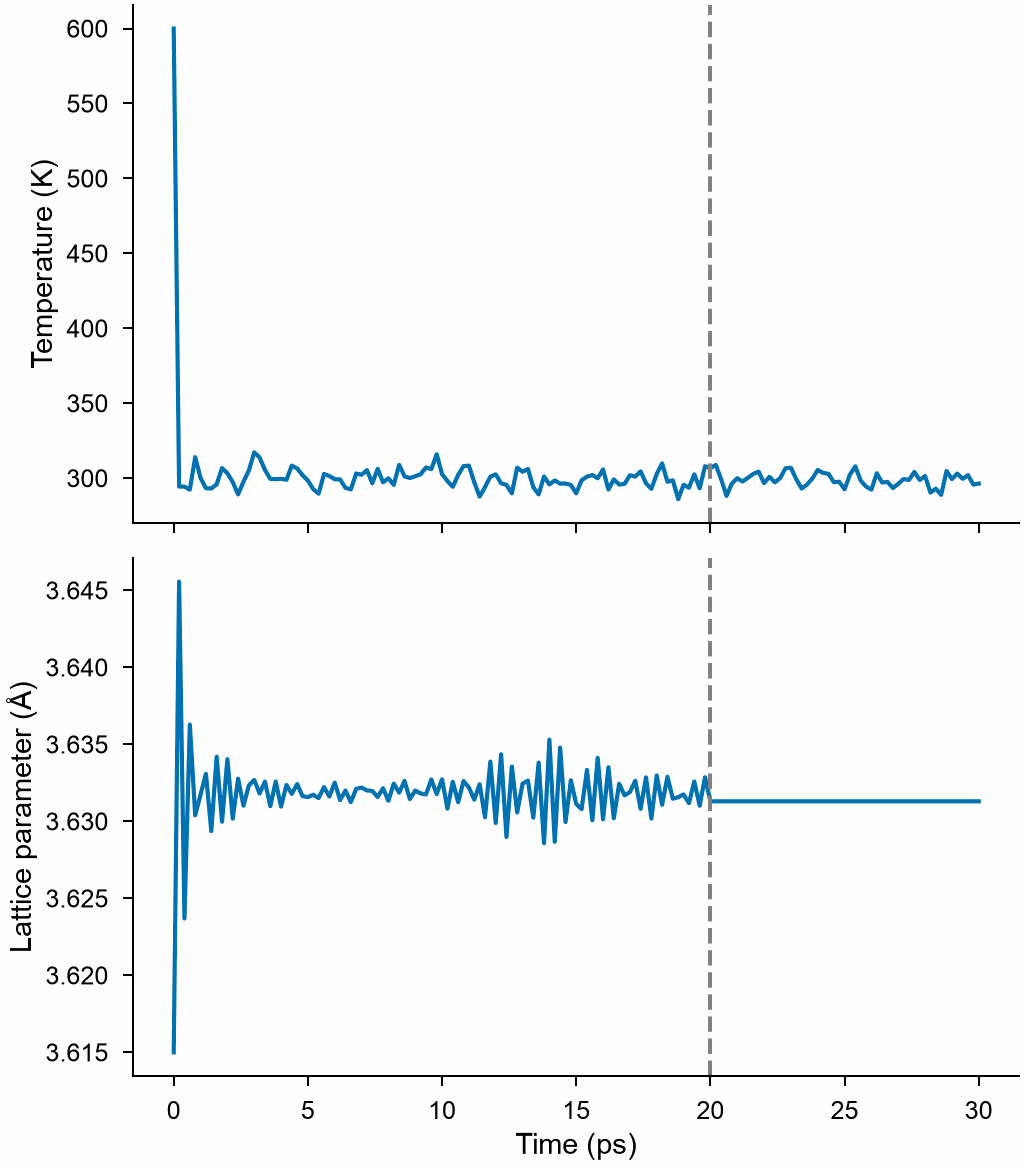
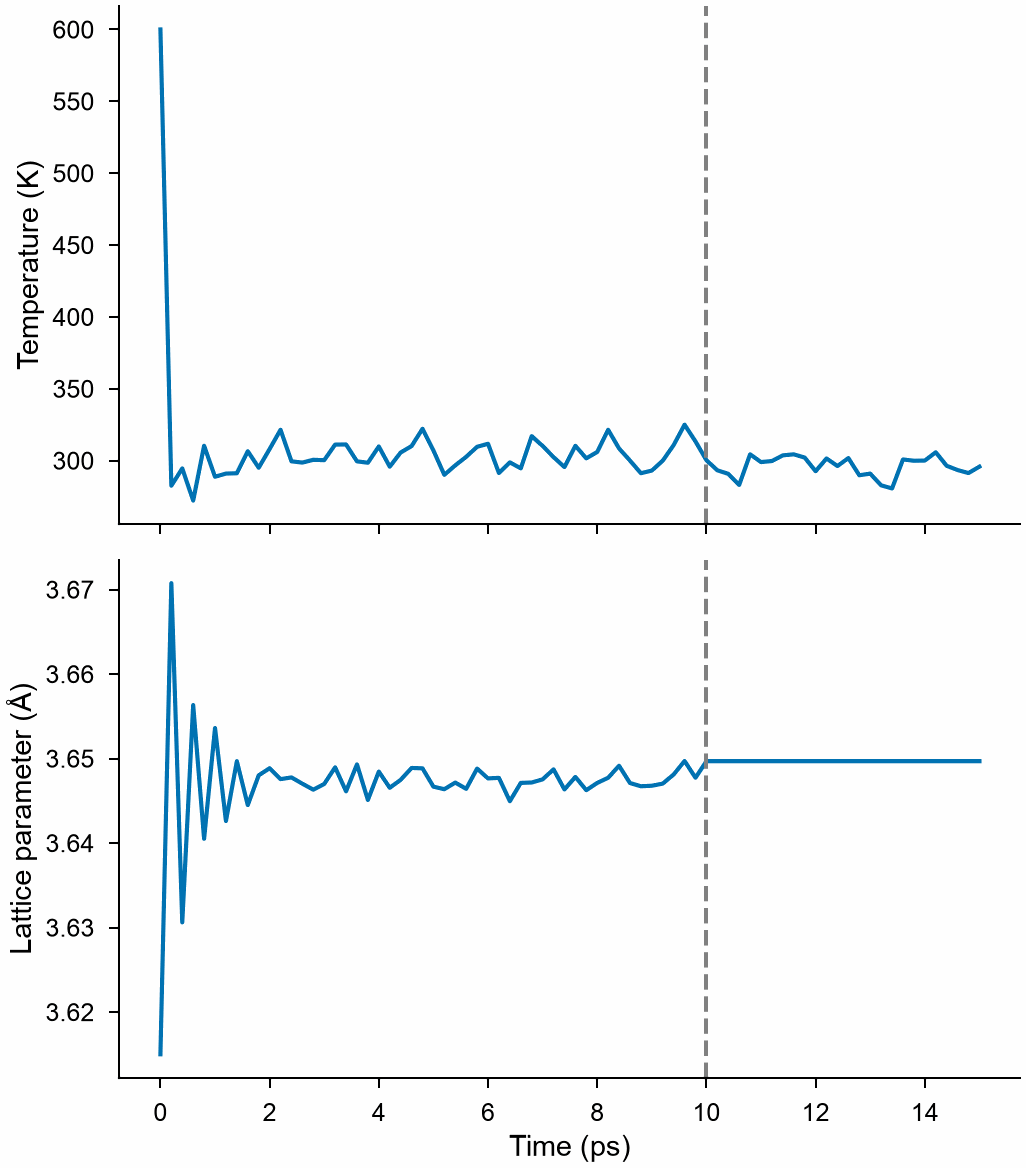
The simulation guide regrouped: relaxation, molecular dynamics, mechanical loading, shock compression, lattice dynamics, thermal conductivity and thermodynamics. The page of molecular dynamics starts in MDAPY, copper with EAM run by the docs' tests, LAMMPS in a section of its own; the controls page 

diff --git a/docs/user-guide/simulation/dynamics.md b/docs/user-guide/simulation/dynamics.md
@@ -2,31 +2,29 @@
 
 `mdapy.simulation.MolecularDynamics(system, potential, *, timestep=0.001)`
 runs molecular dynamics of a system and gives back the thermodynamic state,
-the atoms along the way and the system at the end. With a
-[LAMMPS calculator](lammps.md), the dynamics runs in LAMMPS; with any other
-calculator of MDAPY, such as [NEP](nep.md), [EAM](eam.md) or an
-[ASE calculator](../interop/ase-calculators.md), it runs in MDAPY itself. The
-two take the same calls and give the same results.
-[Molecular dynamics through LAMMPS](../../examples/molecular-dynamics.md) shows it at
-work, says what it is not made for, and how to run it on several threads or a GPU;
-[A copper cluster melting in MDAPY](../../examples/cluster-melting.md) runs it in MDAPY
-itself, writing the atoms to a file as the run goes.
+the atoms along the way and the system at the end. With any calculator of MDAPY,
+such as [EAM](eam.md), [NEP](nep.md) or an
+[ASE calculator](../interop/ase-calculators.md), it runs in MDAPY itself, on the
+processor or, for a potential with `device="cuda"`, on an NVIDIA [GPU](gpu.md); with a
+[LAMMPS calculator](lammps.md) it runs in LAMMPS. The two take the same calls and give
+the same runs, step by step.
+[A copper cluster melting in MDAPY](../../examples/cluster-melting.md) runs it in MDAPY,
+writing the atoms to a file as the run goes;
+[Molecular dynamics through LAMMPS](../../examples/molecular-dynamics.md) runs it in
+LAMMPS on several threads or a GPU.
 
-<!-- skip-test -->
 ```python
 from mdapy.build import build_crystal
-from mdapy.calculators import LAMMPS
+from mdapy.calculators import EAM
 from mdapy.simulation import MolecularDynamics
 
-potential = LAMMPS(
-    "pair_style eam/alloy\npair_coeff * * Cu_mishin1.eam.alloy Cu", elements=["Cu"]
-)
-crystal = build_crystal("fcc", 3.615, elements="Cu", repeat=(8, 8, 8))
+copper = EAM.zhou(["Cu"])
+crystal = build_crystal("fcc", 3.615, elements="Cu", repeat=(6, 6, 6))  # 864 atoms
 
-with MolecularDynamics(crystal, potential, timestep=0.002) as md:
+with MolecularDynamics(crystal, copper, timestep=0.002) as md:
     md.velocities(600, seed=1)
-    md.run(10000, ensemble="npt", temperature=300, pressure=0.0, thermo=100)
-    md.run(5000, ensemble="nvt", temperature=300, save_every=500)
+    md.run(5000, ensemble="npt", temperature=300, pressure=0.0, thermo=100)
+    md.run(2500, ensemble="nvt", temperature=300, save_every=500)
     md.thermo  # polars DataFrame: step, time, temperature, energies, ...
     md.frames  # the atoms every 500 steps of the second run
     hot = md.system  # the atoms at the end, with velocities and images
@@ -34,12 +32,11 @@ with MolecularDynamics(crystal, potential, timestep=0.002) as md:
 
 The thermodynamic state along the two runs:
 
-<!-- skip-test -->
 ```python
 from mdapy.visualization import plot
 
 thermo = md.thermo
-a = (thermo["volume"] / 512) ** (1 / 3)  # lattice parameter of the 8 x 8 x 8 cells
+a = (thermo["volume"] / 216) ** (1 / 3)  # lattice parameter of the 6 x 6 x 6 cells
 with plot.style():
     fig, (top, bottom) = plot.figure("single", 100, nrows=2, sharex=True)
     top.plot(thermo["time"], thermo["temperature"])
@@ -48,7 +45,7 @@ with plot.style():
     bottom.set_ylabel("Lattice parameter (Å)")
     bottom.set_xlabel("Time (ps)")
     for ax in (top, bottom):
-        ax.axvline(20.0, color="0.5", linestyle="--")  # npt, then nvt
+        ax.axvline(10.0, color="0.5", linestyle="--")  # npt, then nvt
     plot.save(fig, "images/dynamics", formats=("png",))
 ```
 
@@ -56,14 +53,13 @@ with plot.style():
 
 *Copper started at 600 K: half the kinetic energy goes into the potential
 energy at once, and the thermostat holds the rest at 300 K. The barostat
-expands the box from the lattice parameter of 0 K to that of 300 K at zero
-pressure; after the dashed line the box is fixed (nvt).*
+expands the box from the lattice parameter of 0 K, 3.615 Å, to that of 300 K at zero
+pressure, 3.648 Å; after the dashed line the box is fixed (nvt).*
 
-## In MDAPY, with any calculator
+## In MDAPY
 
-The same calls run a small system with a calculator that LAMMPS does not
-have, here a NEP model, or any model with an ASE calculator, with no LAMMPS
-installed:
+The same calls run a calculator that LAMMPS does not have, here a NEP model, or any
+model with an ASE calculator, with no LAMMPS installed:
 
 <!-- skip-test -->
 ```python
@@ -88,11 +84,12 @@ once; a neighbor list with a skin of 1 Å serves several steps while the box
 keeps its shape. The masses are those of the `mass` column, or of the
 elements; LAMMPS takes those of some potential files, such as EAM's.
 
-It is made for small systems, from a few atoms to some thousands, such as
-those of the training sets of machine-learned potentials; large systems and
-long runs on the processor, and anything beyond these ensembles, are for
-LAMMPS. With a potential on an NVIDIA GPU, the same dynamics runs there, for
-millions of atoms: see [On the GPU](gpu.md).
+On the processor it suits small systems, from a few atoms to some thousands, such as
+those of the training sets of machine-learned potentials; with a potential on an NVIDIA
+GPU the same dynamics runs there, for millions of atoms: see [On the GPU](gpu.md). Its
+[controls](controls.md) hold, move, push, heat, deform, indent and shock the atoms, on
+the processor and on the GPU alike. Large systems on many processors, and fixes beyond
+these, are for LAMMPS.
 
 A `movable` column, (N, 3) bool as VASP's selective dynamics, keeps atoms
 still along the directions where it is False, in MDAPY's dynamics only; the
@@ -104,6 +101,30 @@ temperature then counts the directions in which the atoms move.
 | `potential` | calculator | | | the interaction: a `LAMMPS` calculator, run in LAMMPS, or any other calculator, run in MDAPY, which needs energies and forces, and the virial for a barostat |
 | `timestep` | float64 | 0.001 | ps | the time step |
 | `log` | str, path or stream | `None` | | writes the runs to this file, which it overwrites, or to this stream, such as `sys.stdout`: see [Log](#log) |
+
+## In LAMMPS
+
+With a [LAMMPS calculator](lammps.md) the same calls run in LAMMPS: its fixes `nve`,
+`nvt`, `npt`, `nph`, `nphug` and `msst`, and the controls as its fixes, with any of its
+potentials and packages, on several processes with MPI or on GPUs:
+
+<!-- skip-test -->
+```python
+from mdapy.calculators import LAMMPS
+
+potential = LAMMPS(
+    "pair_style eam/alloy\npair_coeff * * Cu_mishin1.eam.alloy Cu", elements=["Cu"]
+)
+crystal = build_crystal("fcc", 3.615, elements="Cu", repeat=(8, 8, 8))
+with MolecularDynamics(crystal, potential, timestep=0.002) as md:
+    md.velocities(600, seed=1)
+    md.run(10000, ensemble="npt", temperature=300, pressure=0.0, thermo=100)
+    md.command("compute peratom all pe/atom")  # any LAMMPS command between runs
+```
+
+[Molecular dynamics through LAMMPS](../../examples/molecular-dynamics.md) says what it
+is not made for, and how to run it on several threads or a GPU;
+[LAMMPS on many processes with MPI](../../examples/mpi.md) runs it with MPI.
 
 ## Running
 

diff --git a/docs/user-guide/simulation/controls.md b/docs/user-guide/simulation/controls.md
@@ -4,8 +4,13 @@ A run of [molecular dynamics](dynamics.md) can hold some atoms still, move
 others at a velocity, push others and keep others at a temperature: the
 controls of the run. Each acts on
 a group, an (N,) bool mask over the atoms of the system, and lasts for the
-run it is given to, through `controls` of `run` or `iterate`; a
-[`Deform`](deformation.md) among them deforms the box.
+run it is given to, through `controls` of `run` or `iterate`. Others act on the
+whole run: a [`Deform`](deformation.md) deforms the box, an
+[`AdaptiveTimestep`](adaptive-timestep.md) sets the time step, a
+[`Switch`](switching.md) turns the potential into another, and a [`Wall`](walls.md) or
+an [`Indenter`](indentation.md) pushes the atoms that reach it. All of them act in
+MDAPY, on the processor and on the [GPU](gpu.md); all but the `Switch` act in LAMMPS
+too.
 
 Copper sheared between two walls at 300 K: the bottom wall held, the top
 one moved along x at 0.2 Å/ps, 20 m/s, the force of the crystal on it
